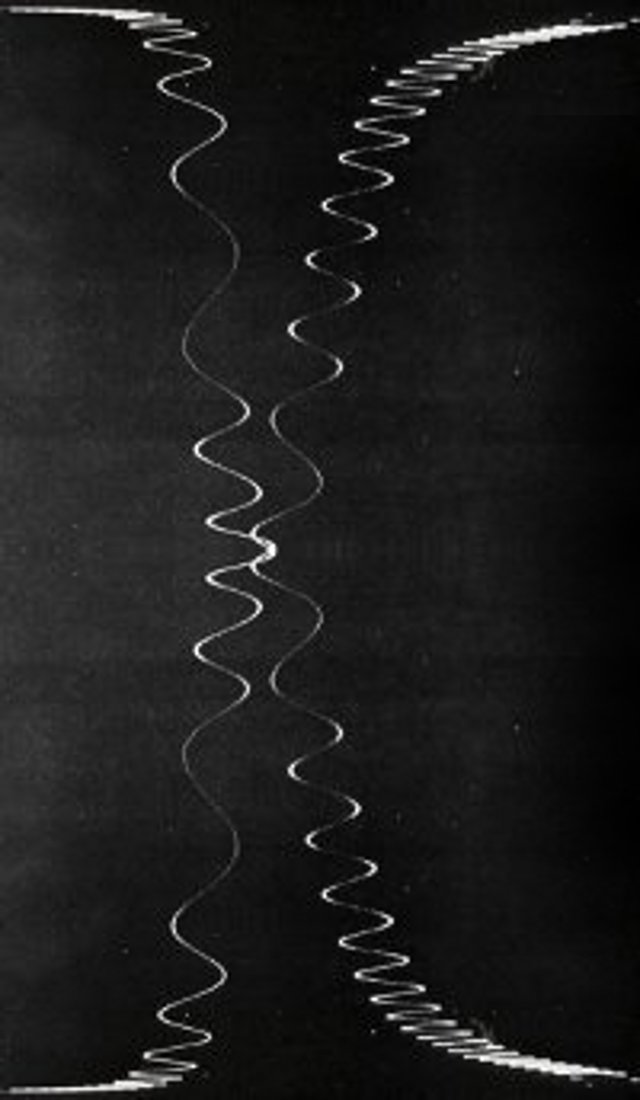
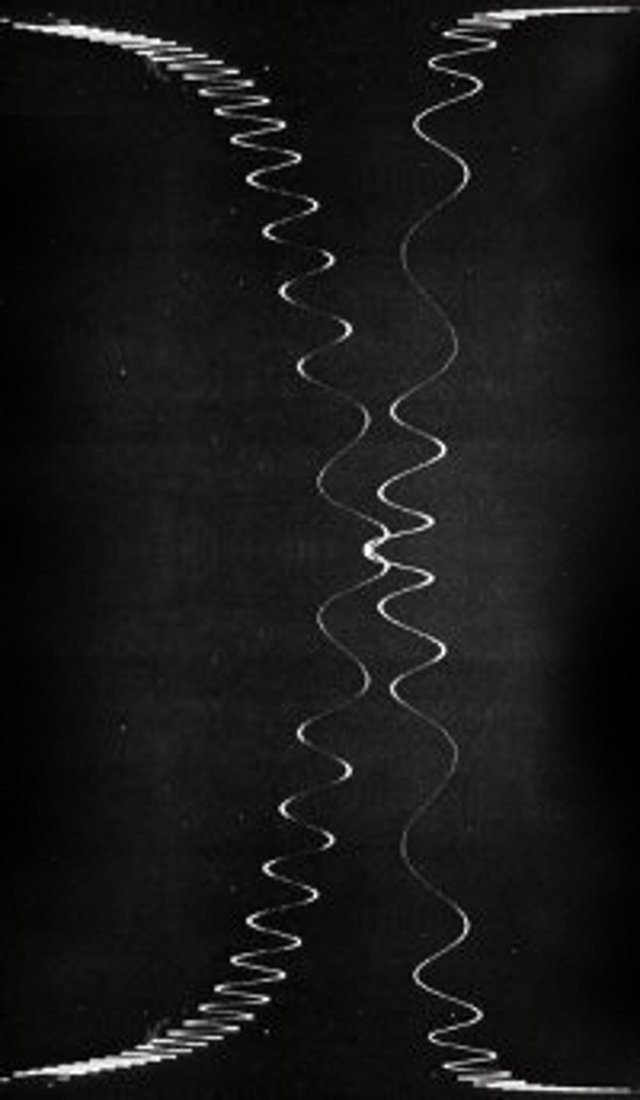
Flip background image.

diff --git a/assets/styles/id.css b/assets/styles/id.css
@@ -4,14 +4,14 @@
 
 /* #header */
 
-#header {position:relative; margin:0; padding:0; padding-right:200px;}
+#header {position:relative; margin:0; padding:0; padding-right:180px;}
 
 #header .title {width:720px; margin:0 auto; padding:0;}
 #header .title ul {padding-left: 20px;}
 
 /* #nav */
 
-#nav { position: fixed; padding: 20px; right: 0; top: 40px; width: 200px;
+#nav { position: fixed; padding: 20px; right: 0; top: 40px; width: 180px;
   border-top: 4px solid; border-left: 4px solid; border-bottom: 4px solid;
   -moz-border-radius-topleft: 20px; -webkit-border-top-left-radius: 20px;
   -moz-border-radius-bottomleft: 20px; -webkit-border-bottom-left-radius: 20px;
@@ -26,7 +26,7 @@
 
 /* #main */
 
-#main { padding: 0px; padding-right: 200px; }
+#main { padding: 0px; padding-right: 180px; }
 
 #main .doc { width: 720px; margin: 0 auto; padding: 0 0 10px 0; }
 #main .doc h2 { border-left: 0px solid; padding-left: 0; }
@@ -35,7 +35,7 @@
 
 /* #footer */
 
-#footer { padding-right: 200px; margin-top: 30px; }
+#footer { padding-right: 180px; margin-top: 30px; }
 #footer .advert { width: 720px; margin: 0 auto; }
 #footer .copyright { width: 720px; margin: 0 auto; margin-top: 20px; padding: 20px 0px 35px 0px; }
 

diff --git a/index.html b/index.html
@@ -24,7 +24,7 @@
   <LINK type="text/css" rel="stylesheet" href="assets/styles/highlight.css" />
 
   <style>
-    body{ background: url(assets/images/bg.jpg) no-repeat #000; margin: 0; padding: 0; }
+    body{ background: url(assets/images/bg.jpg) -130px top no-repeat #000; margin: 0; padding: 0; }
     #header .title h1 { font-size: 72px; padding: 40px 0 0 0; text-shadow: 1px 1px 5px #fff; }
     #main .doc p { font-size: 2em; font-weight: normal; }
   </style>
